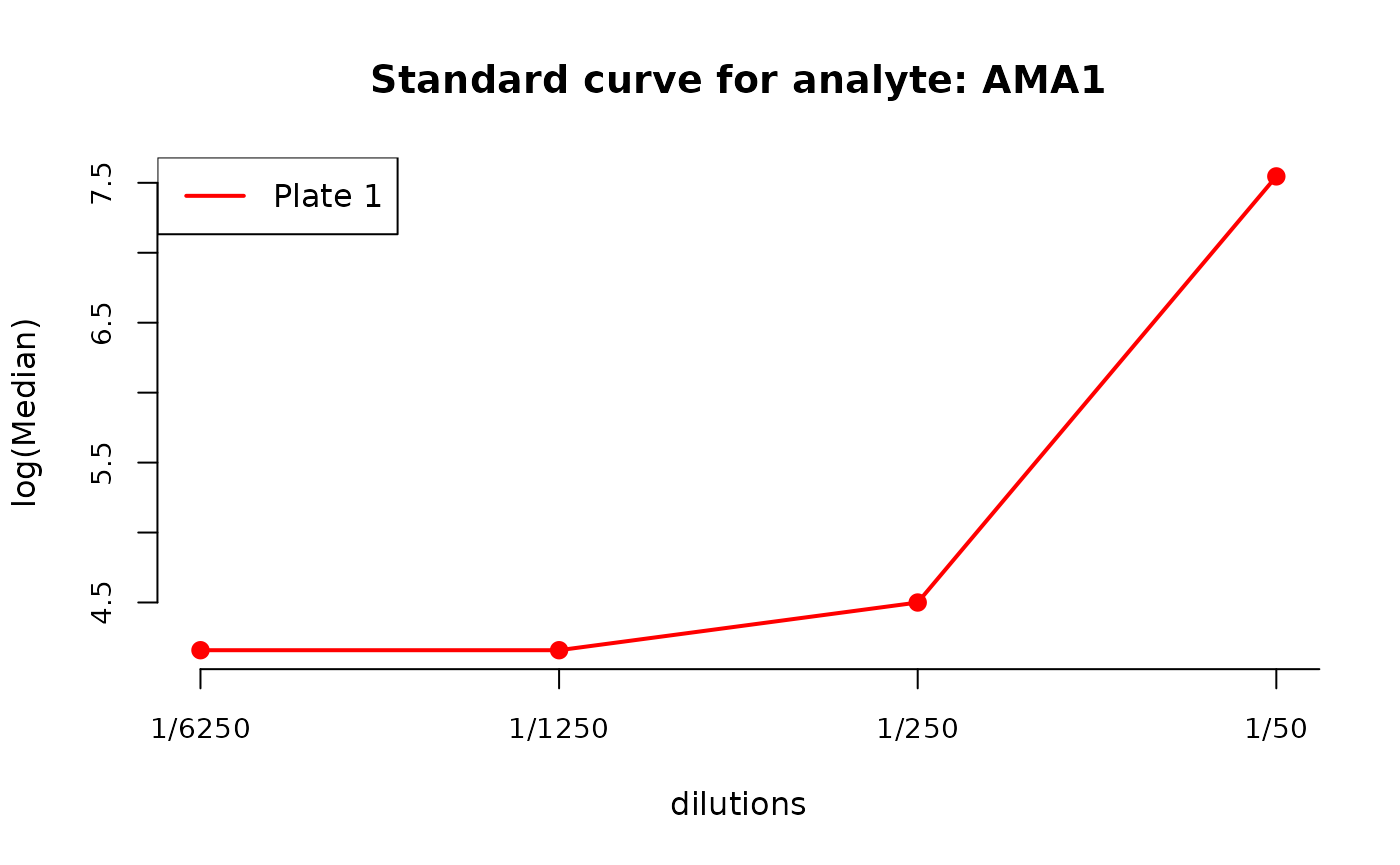
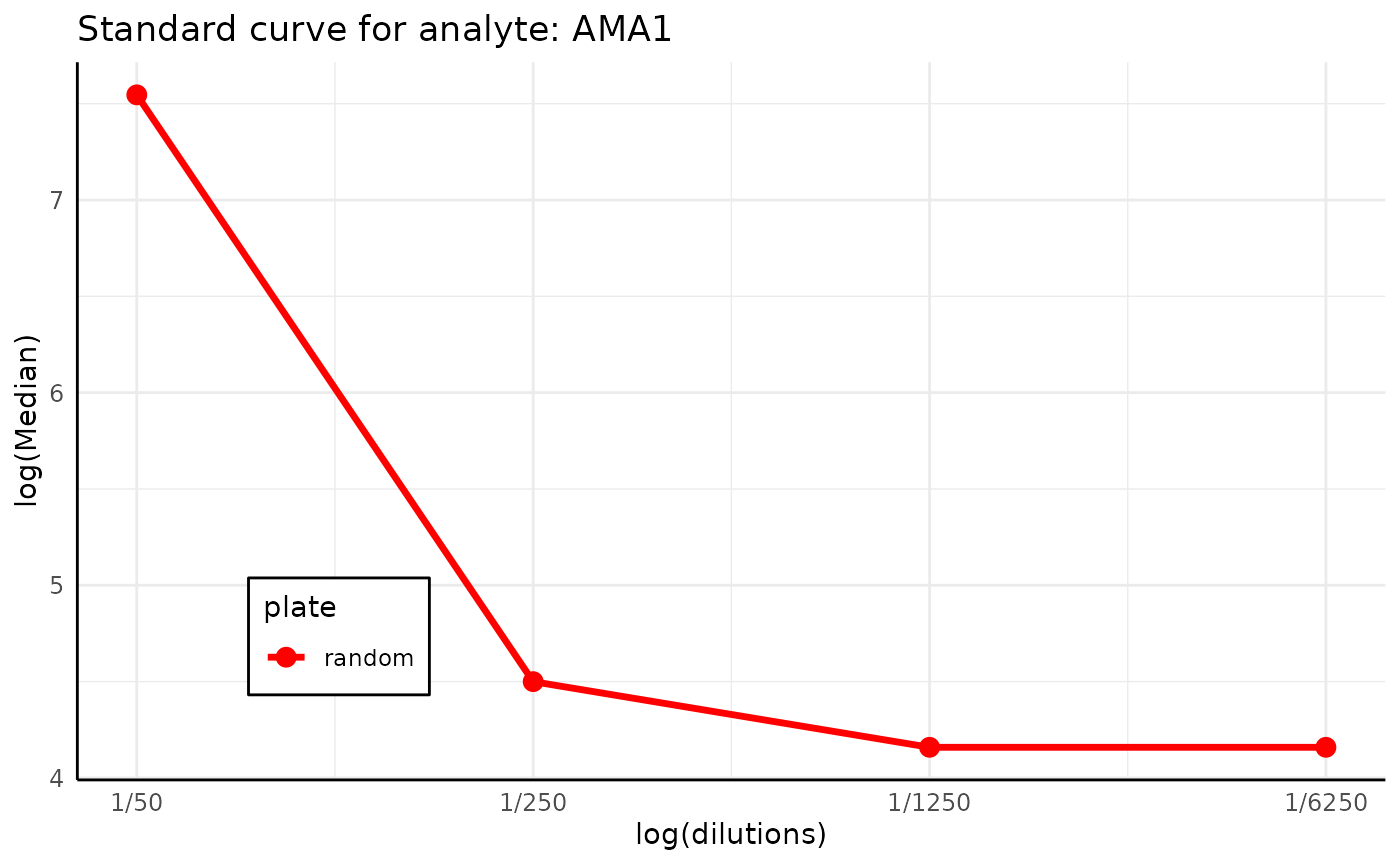
Deploying to gh-pages from @ ZetrextJG/PvSTATEM@40fa1a868512798af66f743534c1401e83498343 🚀

diff --git a/articles/example_script.html b/articles/example_script.html
@@ -109,7 +109,7 @@ information about the plate.</p>
 <div class="sourceCode" id="cb3"><pre class="downlit sourceCode r">
 <code class="sourceCode R"><span><span class="va">plate</span><span class="op">$</span><span class="fu">summary</span><span class="op">(</span><span class="op">)</span></span></code></pre></div>
 <pre><code><span><span class="co">#&gt; Summary of the plate generated on 01/07/2024 00:00</span></span>
-<span><span class="co">#&gt; with batch name 'test_plate':</span></span>
+<span><span class="co">#&gt; with name 'random':</span></span>
 <span><span class="co">#&gt; Total number of samples: 8</span></span>
 <span><span class="co">#&gt; Number of blank samples: 1</span></span>
 <span><span class="co">#&gt; Number of positive control samples: 4</span></span>
@@ -171,12 +171,18 @@ field of the plate object. The warnings can be accessed by the
 <div class="sourceCode" id="cb21"><pre class="downlit sourceCode r">
 <code class="sourceCode R"><span><span class="fu"><a href="../reference/plot_standard_curve_antibody.html">plot_standard_curve_antibody</a></span><span class="op">(</span><span class="va">plate</span>, antibody_name <span class="op">=</span> <span class="st">"AMA1"</span><span class="op">)</span></span></code></pre></div>
 <pre><code><span><span class="co">#&gt; (<span style="color: #BB0000;">WARNING</span>)</span></span>
-<span><span class="co">#&gt; Blank values not adjusted - Consider adjusting the blank values using function `plate$blank_adjustment`</span></span></code></pre>
+<span><span class="co">#&gt; Blank values not adjusted - Consider adjusting the blank values using function `plate$blank_adjustment`</span></span>
+<span><span class="co">#&gt; (<span style="color: #BB0000;">WARNING</span>)</span></span>
+<span><span class="co">#&gt; No standard curve samples found in the plate</span></span>
+<span><span class="co">#&gt; Using positive control samples</span></span></code></pre>
 <p><img src="example_script_files/figure-html/unnamed-chunk-4-1.png" width="700"></p>
 <div class="sourceCode" id="cb23"><pre class="downlit sourceCode r">
 <code class="sourceCode R"><span><span class="va">plate</span><span class="op">$</span><span class="fu">blank_adjustment</span><span class="op">(</span><span class="op">)</span></span>
 <span></span>
 <span><span class="fu"><a href="../reference/plot_standard_curve_antibody.html">plot_standard_curve_antibody</a></span><span class="op">(</span><span class="va">plate</span>, antibody_name <span class="op">=</span> <span class="st">"AMA1"</span><span class="op">)</span></span></code></pre></div>
+<pre><code><span><span class="co">#&gt; (<span style="color: #BB0000;">WARNING</span>)</span></span>
+<span><span class="co">#&gt; No standard curve samples found in the plate</span></span>
+<span><span class="co">#&gt; Using positive control samples</span></span></code></pre>
 <p><img src="example_script_files/figure-html/unnamed-chunk-4-2.png" width="700"></p>
 </div>
 </div>

diff --git a/reference/Plate.html b/reference/Plate.html
@@ -81,6 +81,11 @@
 <dd><p>a list containing audit logs read from Luminex file</p></dd>
 
 
+<dt><code>plate_name</code></dt>
+<dd><ul><li><p>plate name obtained from filename</p></li>
+</ul></dd>
+
+
 </dl><p></p></div>
     </div>
     <div id="active-bindings">
@@ -153,7 +158,8 @@
 <span>  samples <span class="op">=</span> <span class="fu"><a href="https://rdrr.io/r/base/list.html" class="external-link">list</a></span><span class="op">(</span><span class="op">)</span>,</span>
 <span>  batch_info <span class="op">=</span> <span class="fu"><a href="https://rdrr.io/r/base/list.html" class="external-link">list</a></span><span class="op">(</span><span class="op">)</span>,</span>
 <span>  calibration_info <span class="op">=</span> <span class="fu"><a href="https://rdrr.io/r/base/list.html" class="external-link">list</a></span><span class="op">(</span><span class="op">)</span>,</span>
-<span>  audit_logs <span class="op">=</span> <span class="fu"><a href="https://rdrr.io/r/base/list.html" class="external-link">list</a></span><span class="op">(</span><span class="op">)</span></span>
+<span>  audit_logs <span class="op">=</span> <span class="fu"><a href="https://rdrr.io/r/base/list.html" class="external-link">list</a></span><span class="op">(</span><span class="op">)</span>,</span>
+<span>  plate_name <span class="op">=</span> <span class="st">""</span></span>
 <span><span class="op">)</span></span></code></pre></div><p></p></div>
 </div>
 

diff --git a/reference/plot_standard_curve_antibody.html b/reference/plot_standard_curve_antibody.html
@@ -60,6 +60,7 @@
 <span>  data_type <span class="op">=</span> <span class="st">"Median"</span>,</span>
 <span>  file_path <span class="op">=</span> <span class="cn">NULL</span>,</span>
 <span>  decreasing_dilution_order <span class="op">=</span> <span class="cn">TRUE</span>,</span>
+<span>  log_scale <span class="op">=</span> <span class="fu"><a href="https://rdrr.io/r/base/c.html" class="external-link">c</a></span><span class="op">(</span><span class="st">"all"</span><span class="op">)</span>,</span>
 <span>  verbose <span class="op">=</span> <span class="cn">TRUE</span></span>
 <span><span class="op">)</span></span></code></pre></div>
     </div>
@@ -86,6 +87,10 @@
 
 <dt id="arg-decreasing-dilution-order">decreasing_dilution_order<a class="anchor" aria-label="anchor" href="#arg-decreasing-dilution-order"></a></dt>
 <dd><p>If <code>TRUE</code> the dilutions are plotted in decreasing order, <code>TRUE</code> by default</p></dd>
+
+
+<dt id="arg-log-scale">log_scale<a class="anchor" aria-label="anchor" href="#arg-log-scale"></a></dt>
+<dd><p>Which elements on the plot should be displayed in log scale. By default c("dilutions"). If <code>NULL</code> no log scale is used, if "all" or c("dilutions", "MFI") all elements are displayed in log scale.</p></dd>
 
 
 <dt id="arg-verbose">verbose<a class="anchor" aria-label="anchor" href="#arg-verbose"></a></dt>

diff --git a/reference/SampleType.html b/reference/SampleType.html
@@ -59,8 +59,9 @@
     <p></p><div class="r6-fields"><dl><dt><code>sample_type</code></dt>
 <dd><p>A type of the sample.
 The possible sample types are:</p><ol><li><p>(<code>"BLANK"</code>)<br> - background sample used for testing</p></li>
-<li><p>(<code>"POSITIVE CONTROL"</code>)<br> -</p></li>
-<li><p>(<code>"NEGATIVE CONTROL"</code>)<br> -</p></li>
+<li><p>(<code>"STANDARD CURVE"</code>)<br> - a sample used to create a standard curve</p></li>
+<li><p>(<code>"POSITIVE CONTROL"</code>)<br> - a positive control sample used for testing</p></li>
+<li><p>(<code>"NEGATIVE CONTROL"</code>)<br> - a negative control sample used for testing</p></li>
 <li><p>(<code>"TEST"</code>)<br> - the actual sample used for testing</p></li>
 </ol></dd>
 
